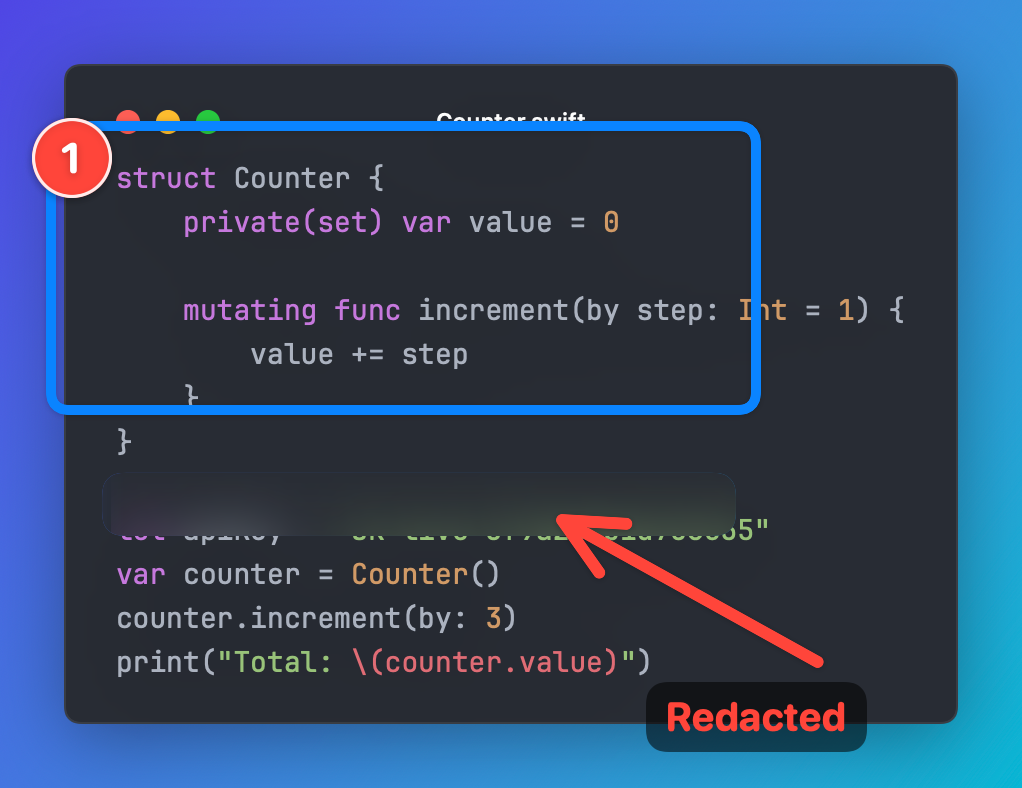
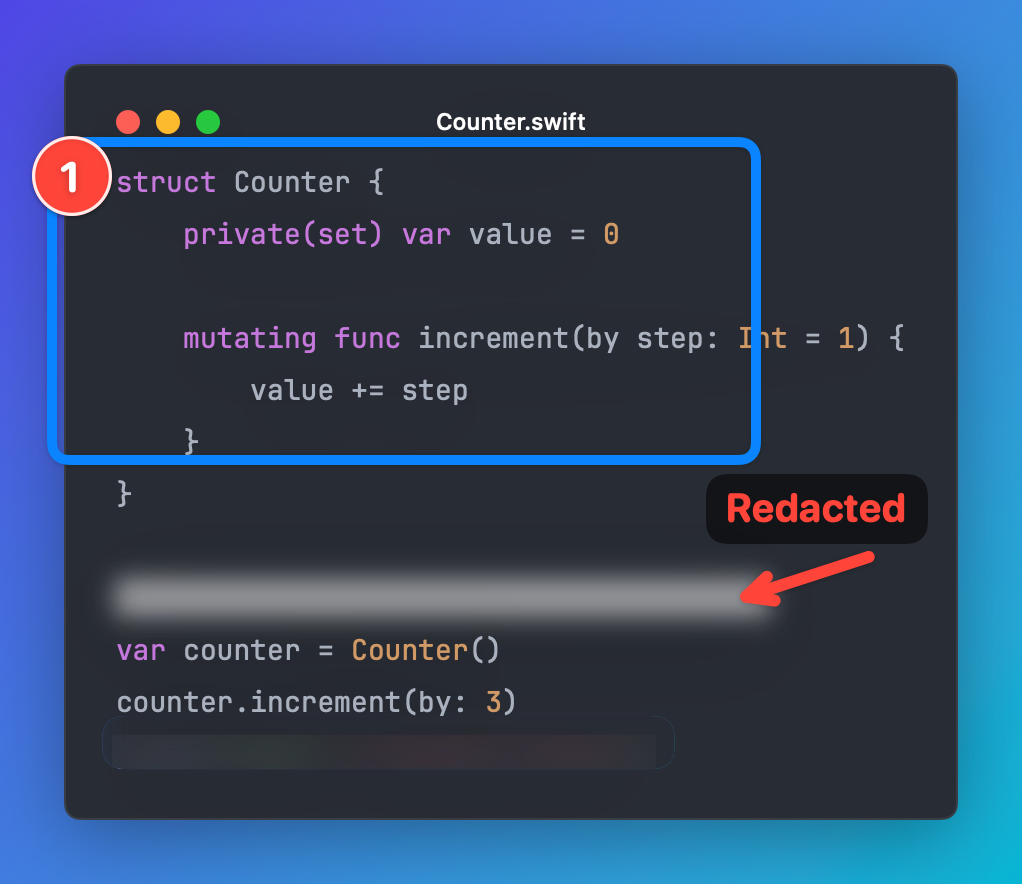
docs(site): re-render the annotated screenshot with the secret truly redacted

diff --git a/Tests/ReviewShots.swift b/Tests/ReviewShots.swift
@@ -207,9 +207,11 @@ struct ReviewShotsGeneratorTests {
         ]
         shots.append(("15-annotation-line", line, nil, 2))
 
-        // The hero: a multi-tool markup the way a finished CleanShot annotation looks.
+        // The hero (site and README): the secret line is truly redacted; the blur is
+        // visual only, so it covers an ordinary line.
         var hero = base()
         hero.windowTitle = "Counter.swift"
+        hero.redactedLineRanges = [9...9]
         hero.annotations = [
             Annotation(
                 kind: .rectangle, start: CGPoint(x: 0.05, y: 0.16), end: CGPoint(x: 0.74, y: 0.52),
@@ -218,12 +220,12 @@ struct ReviewShotsGeneratorTests {
                 kind: .counter, start: CGPoint(x: 0.07, y: 0.20), end: .zero, thickness: 6,
                 number: 1),
             Annotation(
-                kind: .blur, start: CGPoint(x: 0.10, y: 0.60), end: CGPoint(x: 0.72, y: 0.68)),
+                kind: .blur, start: CGPoint(x: 0.10, y: 0.81), end: CGPoint(x: 0.66, y: 0.87)),
             Annotation(
-                kind: .arrow, start: CGPoint(x: 0.80, y: 0.84), end: CGPoint(x: 0.55, y: 0.66),
+                kind: .arrow, start: CGPoint(x: 0.85, y: 0.63), end: CGPoint(x: 0.73, y: 0.675),
                 thickness: 6),
             Annotation(
-                kind: .text, start: CGPoint(x: 0.74, y: 0.91), end: .zero, text: "Redacted",
+                kind: .text, start: CGPoint(x: 0.80, y: 0.575), end: .zero, text: "Redacted",
                 color: red()),
         ]
         shots.append(("16-annotations-hero", hero, nil, 2))
